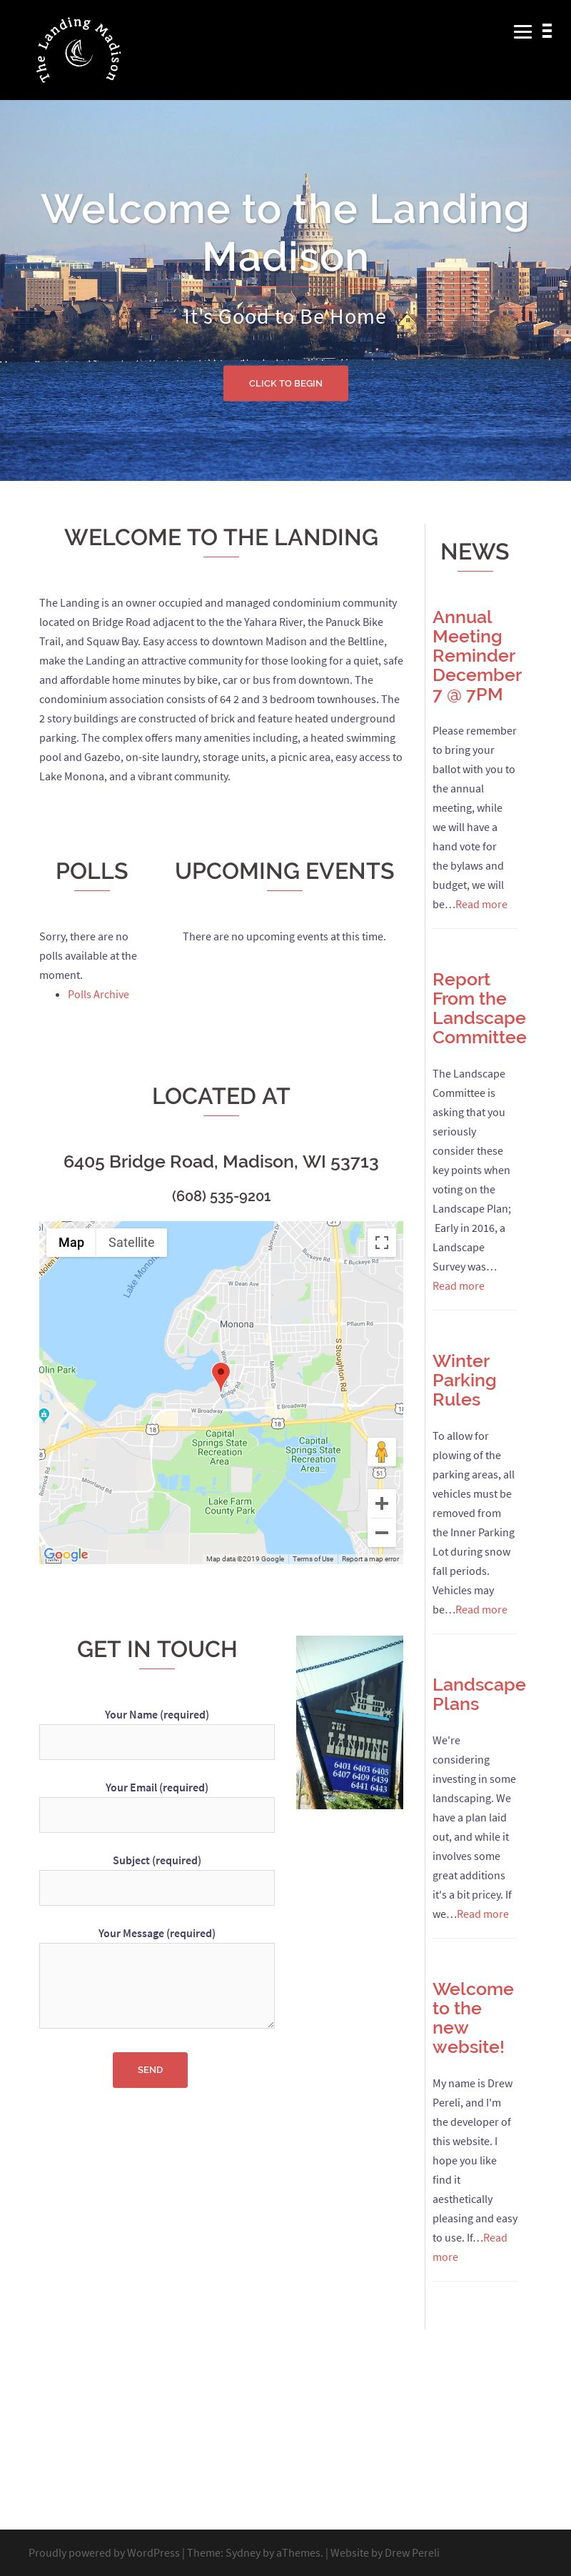
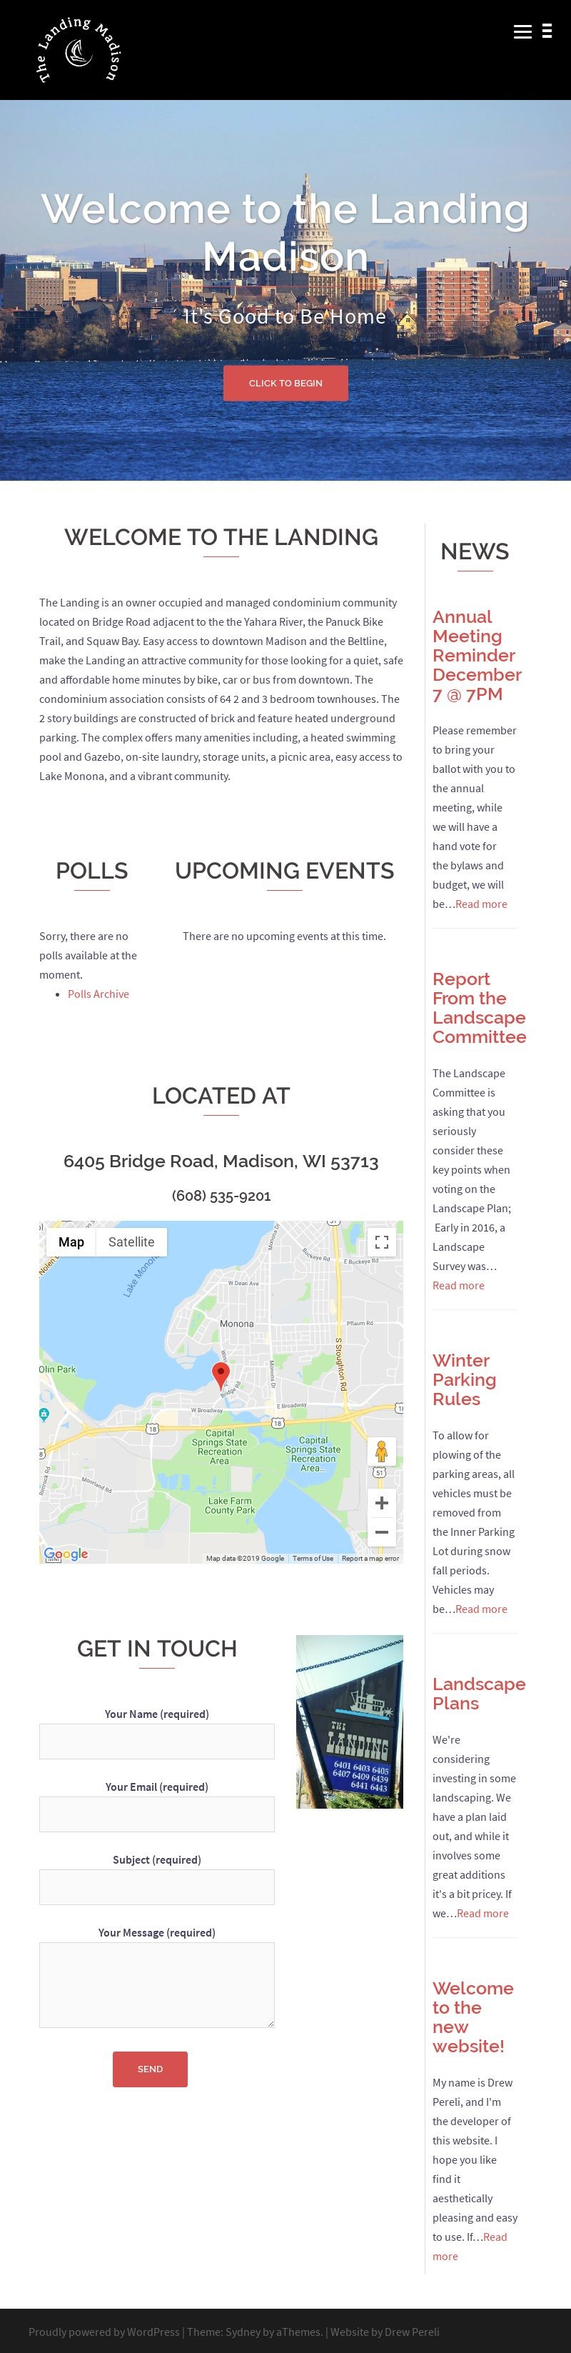
improved styles and animations

Changed region(s): [[0.0, 0.0, 1.0, 0.9599], [0.0625, 0.4026, 0.7188, 0.8361], [0.1875, 0.867, 0.3438, 0.898]]

diff --git a/src/style/dropdowns.scss b/src/style/dropdowns.scss
@@ -1,5 +1,5 @@
 $animationDuration: .5s;
-
+$scalingFactor: 10;
 
 #contact-container, #portfolio-container{
   position: absolute;
@@ -7,10 +7,10 @@ $animationDuration: .5s;
   transform-origin: top left;
   top: 0;			
   margin: 0;
-  width: 5vw;
+  width: 20vw;
   background-color: rgba(200,200,200,.6);
   padding: 2em;
-  transform: scaleY(.2);
+  transform: scaleY(1 / $scalingFactor);
   min-height: 150vh;
   transition: 
   	transform $animationDuration ease $animationDuration, 
@@ -30,7 +30,7 @@ $animationDuration: .5s;
 	  }
 	  .open-btn{
 	  	opacity: 0;
-	  	transition: opacity $animationDuration;
+	  	transition: opacity $animationDuration !important;
 	  }
 	  .close-btn{
 	  	opacity: 1;
@@ -38,12 +38,12 @@ $animationDuration: .5s;
 	  }
   }
   .open-btn{
-  	transform: scaleY(5);
+  	transform: scaleY($scalingFactor);
   	position: absolute;
   	display: block;
   	bottom: 25px;
   	opacity: 1;
-  	transition: opacity $animationDuration $animationDuration*2 ;
+  	transition: opacity $animationDuration ease $animationDuration*2 !important;
   }
   .close-btn{
   	position: absolute;
@@ -66,7 +66,8 @@ $animationDuration: .5s;
   form { 
   	opacity: 0;
   	transition: opacity $animationDuration ease;
-	  div {
+	  margin-top: 3em;
+    div {
   		margin: 1em;
 	  	input, textarea{
 	  		font-family: monospace;

diff --git a/src/style/siteImages.scss b/src/style/siteImages.scss
@@ -15,12 +15,12 @@
 	}
 }
 .site-image{
-	height: 100%;
-	background-position: center 0%;
+	// height: 100%;
+	background-position: center top;
 	background-size: cover;
   &.active{
   	opacity: 1;
-  	background-position: center 20%;
+  	background-position: center bottom;
   	transition: background-position 3s 1s;
   }
   &.fade-in{
@@ -29,7 +29,7 @@
   }
   &.fade-out{
   	opacity: 0;
-  	background-position: center 20%;
+  	background-position: center bottom;
   	transition: opacity 1s;
   }
 }

diff --git a/src/style/general.scss b/src/style/general.scss
@@ -26,14 +26,18 @@ body {
 			white-space: nowrap;
 		  text-decoration: none;
 	    background-color: rgb(10,10,10);
-		  color: #777;
+		  color: #999;
+		  @media screen and (max-width: 700px){
+		  	color: #eee;
+		  }
 		  box-shadow: 0 0 5px rgba(0,0,0,.5);
 		  padding: .5em;
 		  border-radius: 5px;
+		  font-size: 1.5em;
 		  transition: font-size .5s;
 			&:hover{
 			  box-shadow: 0 0 10px rgba(0,0,0,.5);
-				font-size: 1.1em;
+				font-size: 1.6em;
 			}
 	  }
 	  #main-background{

diff --git a/src/components/Portfolio.js b/src/components/Portfolio.js
@@ -7,7 +7,7 @@ export default class Portfolio extends React.Component{
 
 	render(){
 		let className = this.props.active ? 'active' : '';
-		let siteElements = sites.map((s,i) => <li class="portfolio-item" key={i}><a target="_blank" href={s.url}>{s.name}</a></li>);
+		let siteElements = sites.map((s,i) => <li className="portfolio-item" key={i}><a target="_blank" href={s.url}>{s.name}</a></li>);
 		return(
 			<div 
 				id="portfolio-container" 

diff --git a/src/index.html b/src/index.html
@@ -1,4 +1,10 @@
-<html>
+<!DOCTYPE html>
+<html lang="en">
+<head>
+	<meta charset="UTF-8">
+    <title>Pereli Web Works</title>
+    <meta name="viewport" content="width=device-width; initial-scale=1.0;">
+</head>
 <body>
 	<div id="app">
 	</div>
